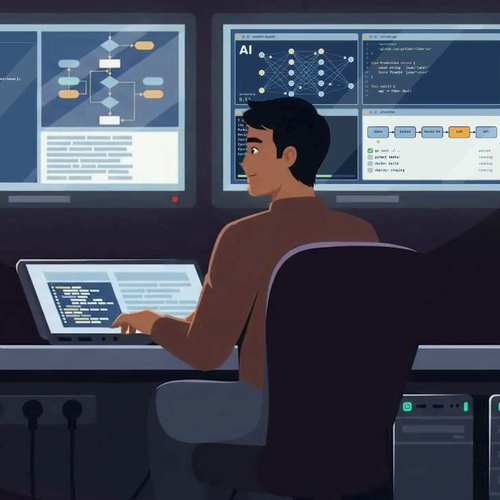
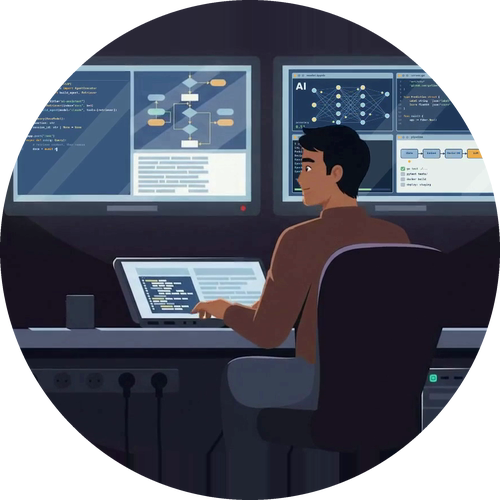
Add files via upload

diff --git a/index.html b/index.html
@@ -136,7 +136,7 @@ section { padding-block: clamp(56px, 9vw, 104px); border-top: 1px solid var(--li
 .scope { margin: 0; display: grid; place-items: center; }
 .scope picture {
   display: block; width: min(400px, 100%); aspect-ratio: 1; max-width: 100%;
-  border-radius: 50%; background: var(--plate);
+  border-radius: 50%; background: var(--plate); overflow: hidden;
 }
 .scope img { display: block; width: 100%; height: auto; }
 @media (max-width: 820px) {
@@ -403,7 +403,7 @@ footer .wrap { display: flex; flex-wrap: wrap; justify-content: space-between; g
       <figure class="scope">
         <picture>
           <source media="(prefers-reduced-motion: reduce)" srcset="coding-static.png">
-          <img src="coding.gif?v=3" width="500" height="500" alt="Animated illustration of a developer coding at a desk with two monitors" data-es-alt="Ilustración animada de un desarrollador programando frente a dos monitores">
+          <img src="coding.gif?v=4" width="500" height="500" alt="Animated illustration of a developer coding at a desk with two monitors" data-es-alt="Ilustración animada de un desarrollador programando frente a dos monitores">
         </picture>
       </figure>
     </div>
